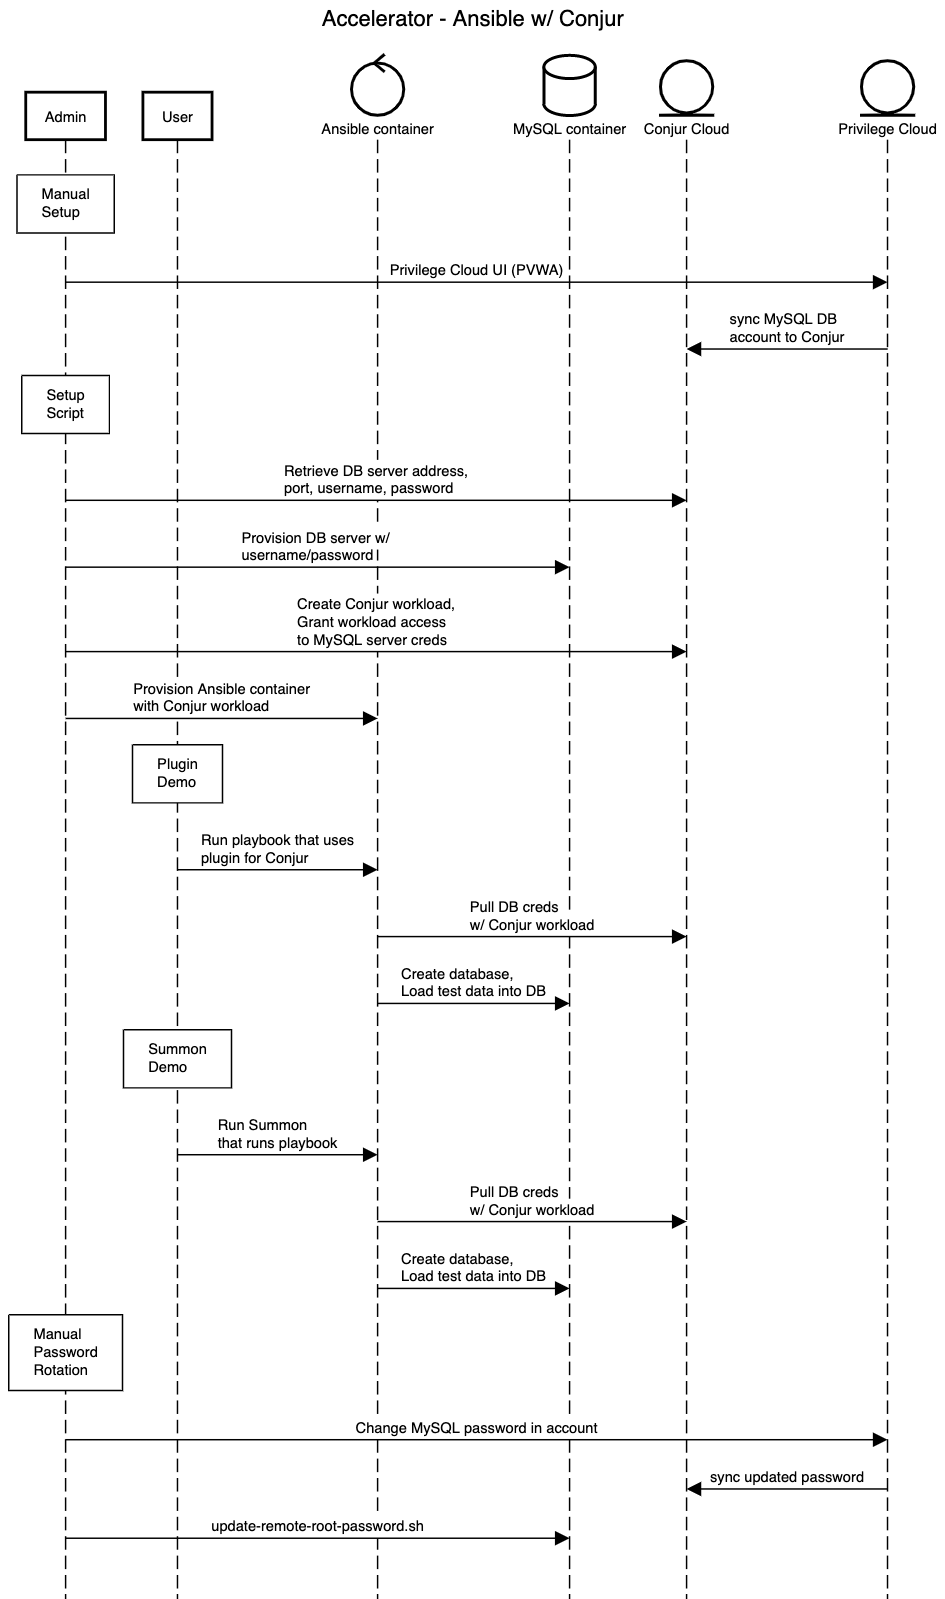
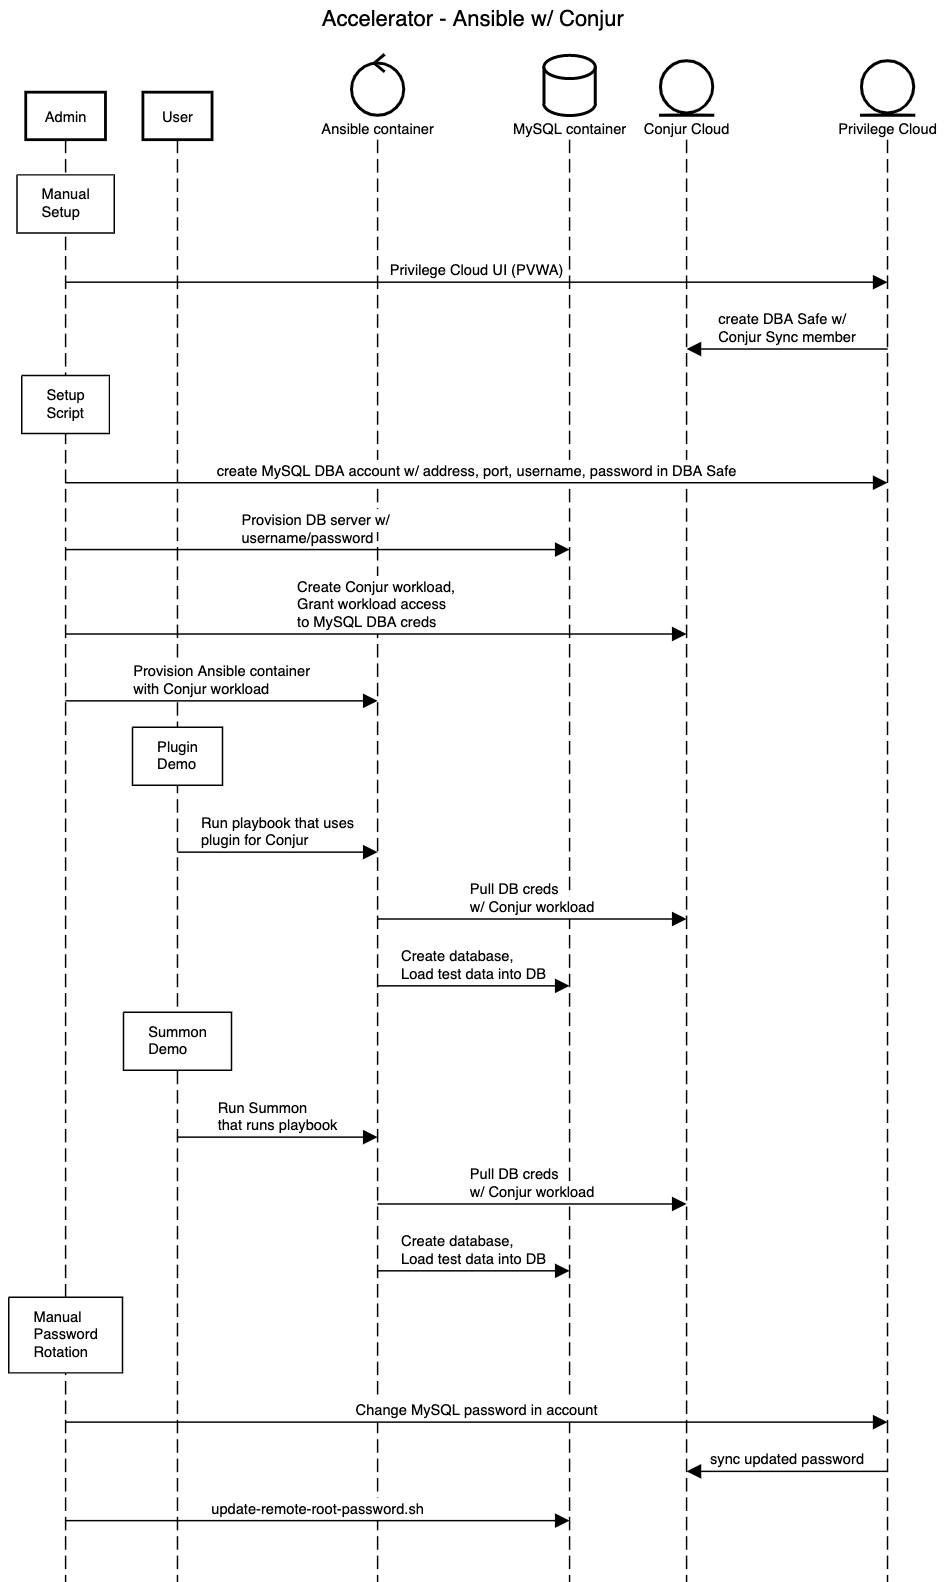
Updated README. moved demo contents to base dir

diff --git a/README.md b/README.md
@@ -2,36 +2,97 @@
 
 ## Goals:
 - Demonstrate best-practices for Ansible w/ CyberArk Secrets Management.
-- Provide templates for provisioning Ansible access to credentials managed by CyberArk.
+- Provide example workflows for provisioning Ansible access to credentials managed by CyberArk.
 
-### Workflow:
-![Ansible Workflow](https://github.com/conjurdemos/Accelerator-Ansible/blob/main/Ansible-Workflow.png?raw=true)
+## Description:
+This accelerator simulates a real-world end-to-end workflow where an Ansible playbook uses DBA credentials that are retrieved from Conjur to provision a test database in MySQL. The accelerator assumes admin access to Privilege Cloud and Conjur Cloud tenants.
+There are two containers that are created for the demo:
+ - one for Ansible OSS and
+ - one for the MySQL DB server.
+A Privilege cloud admin must manually create a Safe and add the Conjur Sync user as a member. The Safe will hold the MySQL DBA credentials. The Setup script builds and configures the Ansible and MySQL containers. It exits after execing into the Ansible container where there are two demo subdirectories:
+ - plugin - which shows how to use the Ansible Galaxy plugin for Conjur to retrieve the MySQL DBA creds from an Ansible demo playbook.
+ - summon - which shows how to use CyberArk Summon (https://cyberark.github.io/summon/) to retrieve the MySQL DBA creds as environment variables accessible to an Ansible playbook.
 
-## Manual Setup
- - A Safe with a MySQL Account must exist
+The Privilege Cloud admin can use the PVWA UI to change the MySQL DBA password and once it is synced to Conjur, a script can update the root password in the MySQL container. The plugin & Summon demos can be rerun to show how Ansible uses the changed password.
+
+## Description of Contents
+ - README.md - this file.
+ - Ansible-Workflow.png - a sequence diagram graphic (see below).
+ - Ansible-seq-diagram.txt - source test for the sequence diagram.
+ - build - build directory for the Ansible container.
+ - ccloud-cli.sh - a limited admin CLI for Conjur Cloud.
+ - demo - demo directory copied into Ansible container.
+ - demo-vars.sh - variables that drive demo parameters.
+ - exec-into-ansible.sh - script that runs an interactive bash shell in the Ansible container.
+ - exec-into-db-server.sh - script that runs an interactive bash shell in the MySQL container.
+ - mysql - build directory for the MySQL container.
+ - pcloud-cli.sh - a limited admin CLI for Privilege Cloud.
+ - start - script to build and run the demo containers.
+ - stop - script to stop and remove the demo containers.
+ - templates - directory holding file templates for Conjur policies and Summon.
+ - update-remote-root-password.sh - script to update the MySQL remote root login password after it has been changed in Privilege Cloud.
+
+## STEP ONE: Manual Setup
+ - A Privilege Cloud admin must create Safe to hold the MySQL DBA account
  - The "Conjur Sync" user must be a member of the Safe
- - The MySQL account is synced to Conjur Cloud
- - Edit demo-vars with correct values for all <<YOUR_VALUE_HERE>> tags
+ - The variables set in demo-vars.sh drive the demo for your environment.
+ - Edit demo-vars with correct values:
+   - DOCKER - Set to the appropriate command for Docker or Podman.
+   - DOCKER_HOSTNAME - This is the DNS resolveable name or IP address for the host running the demo. It is how Ansible connects to the MySQL container.
+   - IDENTITY_TENANT_ID - This value is three lower-case letters and four numbers, and is the first value in the URL for your CyberArk Identity tenant. It has the form (for example): https://abc1234.id.cyberark.cloud
+   - CYBERARK_SUBDOMAIN_NAME - This value is likely your company or organizationname, and is the first value in the Privilege Cloud and Conjur Cloud URLs. It has the form (for example): https://acmecorp.cyberark.cloud
+   - SAFE_NAME - This value must be the name of the MySQL DBA safe created manually.
+   - MYSQL_ACCOUNT_NAME - This will be the name of the MySQL DBA account.
+   - MYSQL_SERVER_ADDRESS - this should be the hostname of your Docker host where the MySQL container will run.
+   - MYSQL_SERVER_PORT - The default port for MySQL is 3306. You only need to change this if there is another process using that port.
+   - MYSQL_INITIAL_ROOT_PASSWORD - This will be the MySQL root user password and will not change for root logins from the localhost (i.e. from within in the MySQL container). The remote root login password can be updated using the update-remote-root-password.sh script. This effects password rotation in the MySQL server.
+   - MYSQL_DB_NAME - This is the name of the test database that Ansible will create. You can change it, or not.
+   - WORKLOAD_ID - This is the name of the Conjur host identity that will be used by the Ansible plugin and Summon to retrieve the MySQL DBA credentials from Conjur. You can change it, or not.
 
-## Start Script
- - Checks for all dependencies:
-   - Environment variables are set
-   - Safe with MySQL Account and "Conjur Sync" user
- - Creates Conjur workload, grants access to delegation/consumsers group for Safe
- - Provisions Ansible container with Conjur workload identity
- - Provisions MySQL server container w/ username/password
- - Execs into Ansible container
+Unless you are experimenting, there is no need to edit anything else in the demo-vars.sh file.
+
+## STEP TWO: Start Script
+ - Run the start script with the command: ./start
+ - The script performs the following:
+   - Checks for all dependencies:
+     - Environment variables are set
+     - Safe with MySQL Account and "Conjur Sync" user
+   - Creates Conjur workload, grants access to delegation/consumsers group for Safe
+   - Provisions Ansible container with Conjur workload identity
+   - Provisions MySQL server container w/ username/password
+   - Execs into Ansible container
 
 ## Use-Case 1 - Ansible plugin
- - Playbook retrieves all DB variables from Conjur Cloud with Conjur workload
- - Creates database and loads test data
+ - From the shell prompt in the Ansible container:
+   - cd to the plugin subdirectory
+   - Run the demo with the command: ./0-run-ansible-demo.sh
+   - Playbook uses Conjur workload to retrieve DB variables from Conjur Cloud 
+   - Playbook creates database and loads test data
+   - Use this command sequence to view the database that Ansible created:
+     - mysql -h $MYSQL_SERVER_ADDRESS -P $MYSQL_SERVER_PORT -u root -p
+	<enter current MySQL remote root password - cut/paste from Ansible output)   - at mysql prompt:
+       - show databases;
+       - use testdb; (or whatever name you specified in demo-vars.sh)
+       - select * from test;
 
 ## Use-Case 2 - Summon
- - Summon retrieves all DB variables from Conjur Cloud with Conjur workload
- - Playbook creates database and loads test data
+ - From the shell prompt in the Ansible container:
+   - cd to the plugin subdirectory
+   - Run the demo with the command: ./0-run-ansible-demo.sh
+   - Summon uses Conjur workload to retrieve DB variables from Conjur Cloud as environment variables, then runs playbook
+   - Playbook uses env vars to create database and loads test data
+   - Use this command sequence to view the database that Ansible created:
+     - mysql -h $MYSQL_SERVER_ADDRESS -P $MYSQL_SERVER_PORT -u root -p
+	<enter current MySQL remote root password - cut/paste from Ansible output)   - at mysql prompt:
+       - show databases;
+       - use testdb; (or whatever name you specified in demo-vars.sh)
+       - select * from test;
 
 ## Use-Case 3 - Password rotation
- - Admin manually changes MySQL password in Safe account
- - Privilege Cloud syncs changed password to Conjur Cloud 
- - Admin updates MySQL DB with update-remote-root-password.sh script
+ - Admin manually changes MySQL DBA password in Safe account
+ - After 1 minute or less Privilege Cloud syncs changed password to Conjur Cloud
+ - Exit Ansible container and run update-remote-root-password.sh script to update MySQL DB
  - Retry use-cases 1 and/or 2
+
+### Sequence Diagram:
+![Ansible Workflow](https://github.com/conjurdemos/Accelerator-Ansible/blob/main/Ansible-Workflow.png?raw=true)
